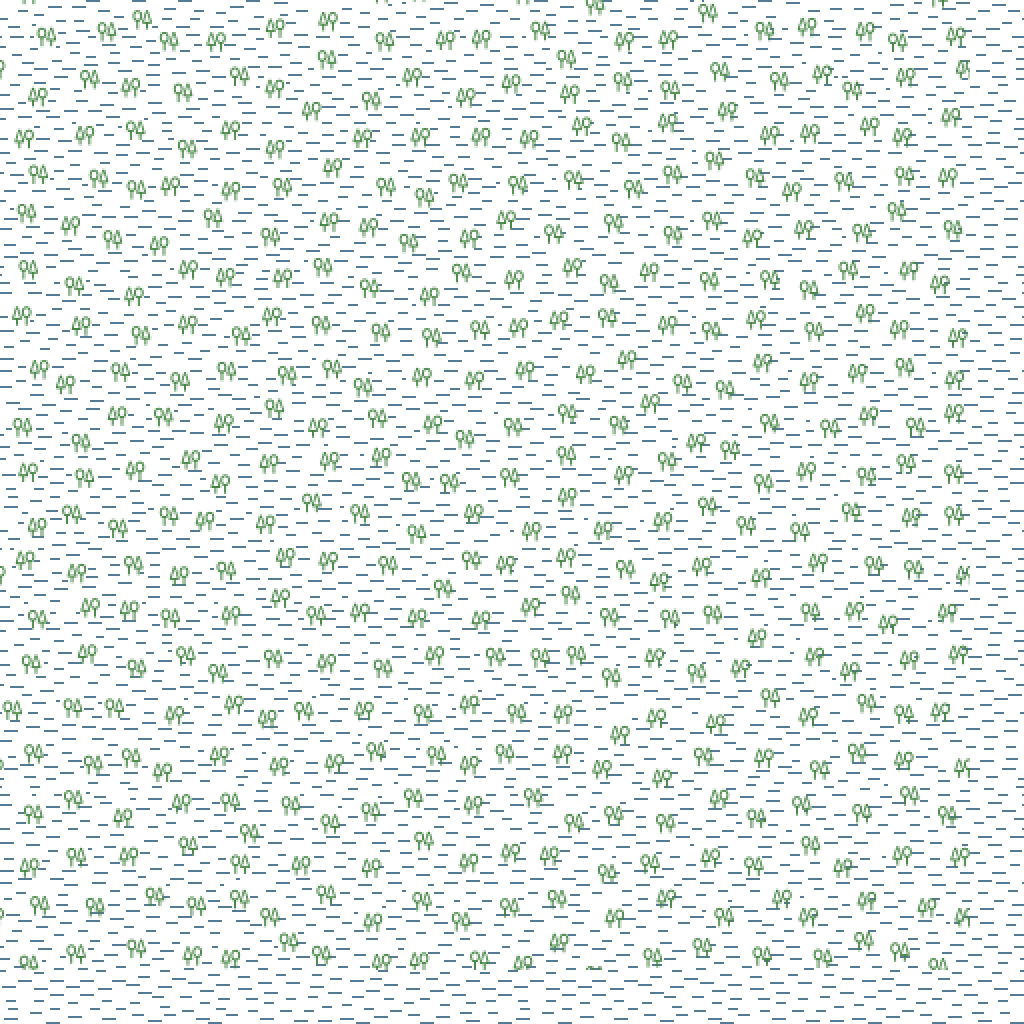
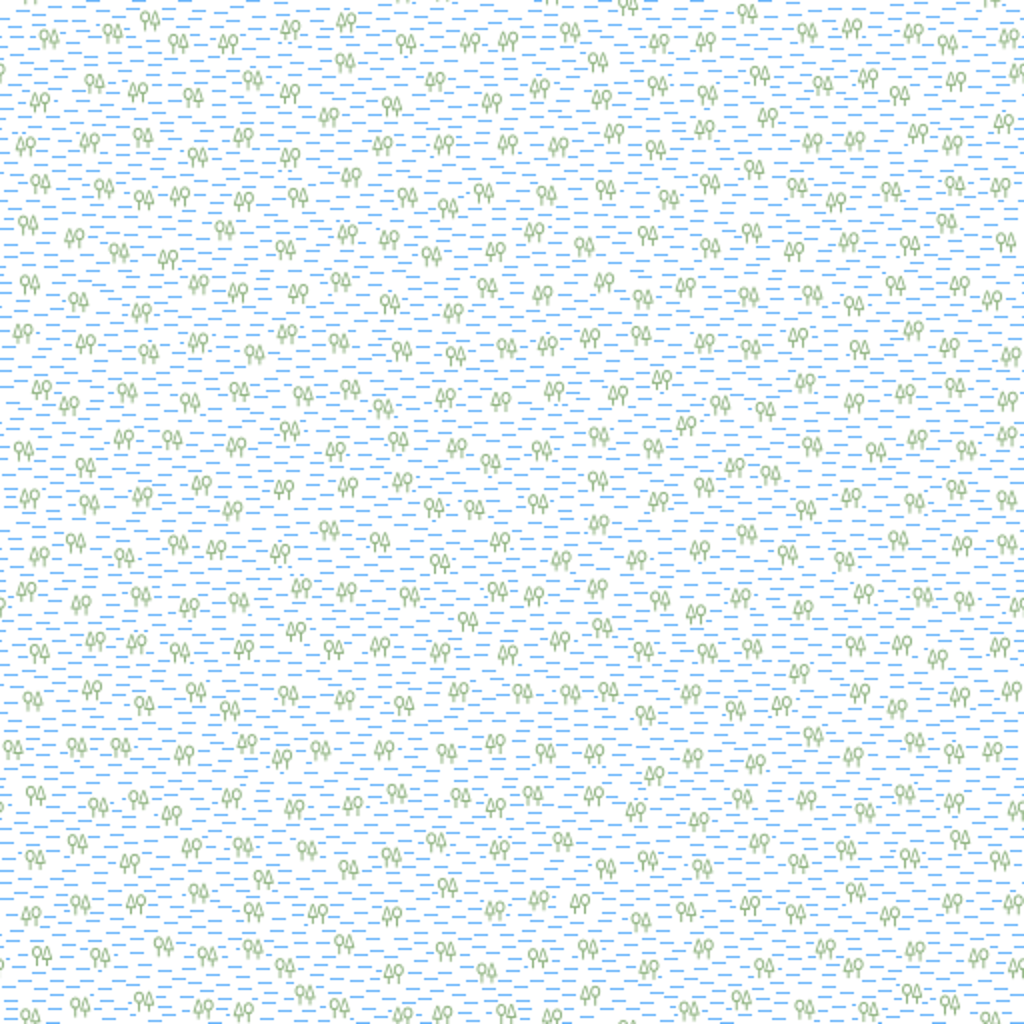
Finally generated a correct PNG pattern for swamps

diff --git a/symbols/generating_patterns/wetland.md b/symbols/generating_patterns/wetland.md
@@ -14,3 +14,23 @@ convert -depth 8 -size 512x512 xc:"$SYMBOL" \( pattern.png -negate \) -set color
 
 convert -depth 8 -size 512x512 xc:"$WETLAND" \( wetland_pattern_bkg.png -negate \) -set colorspace RGB -alpha Off -compose CopyOpacity -composite +compose pattern_col.png -compose Over -composite wetland_pattern.png
 ```
+
+In some cases, which has not been elucidated (https://github.com/gravitystorm/openstreetmap-carto/pull/3051), the SVG conversions produce files with erroneous sizes. In this case, the following command sequence may work, by using Inkscape to rasterize the SVGs:
+
+```
+inkscape -z --export-png=swamp.png --export-dpi=96 --export-background=white swamp.svg
+
+inkscape -z --export-png=swamp_hr.png --export-dpi=768 --export-background=white swamp.svg
+
+convert swamp_hr.png -morphology Erode Disk:5.3 \( +clone -fill black -draw 'color 0,0 floodfill' -negate \) +swap -morphology Erode Disk:10.3 -compose Darken -composite -scale 12.5% -depth 8 pattern_casing.png
+
+inkscape -z --export-png=wetland_tile.png --export-dpi=96 --export-background=white wetland.svg
+
+montage wetland_tile.png wetland_tile.png wetland_tile.png wetland_tile.png -geometry 256x256+0+0 wetland_512.png
+
+convert wetland_512.png \( pattern_casing.png -negate \) -compose Lighten -composite -threshold 50% \( +clone -negate -morphology hitandmiss peaks:1.9 \) -compose Lighten -composite +level 20%,100% wetland_pattern_bkg.png
+
+convert -depth 8 -size 512x512 xc:"#93b685" \( swamp.png -negate \) -set colorspace RGB -alpha Off -compose CopyOpacity -composite pattern_col.png
+
+convert -depth 8 -size 512x512 xc:"#4aa5fa" \( wetland_pattern_bkg.png -negate \) -set colorspace RGB -alpha Off -compose CopyOpacity -composite +compose pattern_col.png -compose Over -composite wetland_pattern.png
+```
